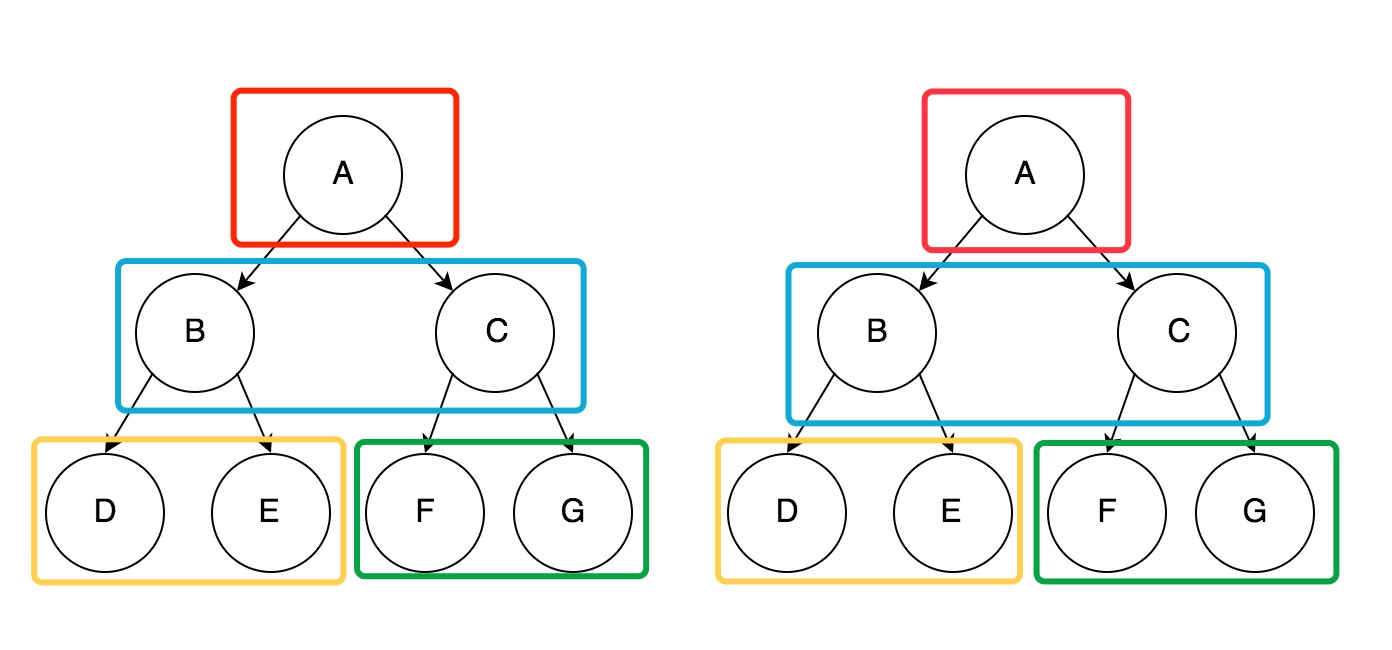
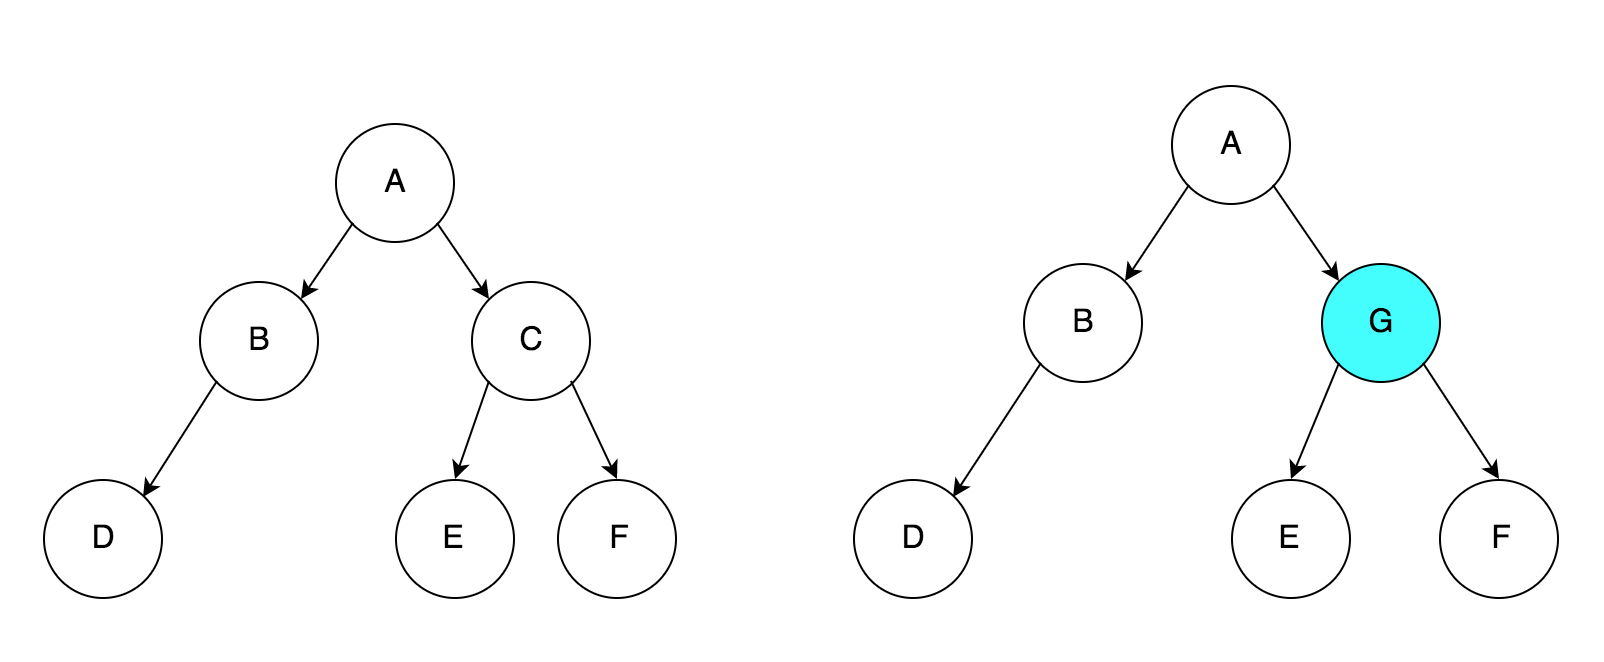
Chapter 2.4 minor editing

Changed region(s): [[0.0, 0.1231, 0.9885, 0.9231], [0.8341, 0.7692, 0.8649, 0.8308], [0.2162, 0.1846, 0.278, 0.2154]]

diff --git a/Chapter2/Chapter §2.4 Diff算法.md b/Chapter2/Chapter §2.4 Diff算法.md
@@ -50,9 +50,9 @@ span.append(counter)
 
     关于**React**的**DOM Tree**的**Diff**: (PS: 相同颜色的节点进行比较)
 
-![Component Diff](../ComponentDiff.png)
+![Tree Diff](../TreeDiff.png)
 
-    React的比对策略, 同级与同级比对, 如果比对结果为**false**, 那么由这个节点将被卸载之后重新**mount**进**DOM Tree.** 
+    **React**的比对策略, 同级与同级比对, 如果比对结果为**false**, 那么由这个节点将被卸载之后重新**mount**进**DOM Tree.** 
 
     比如: 
 
@@ -75,7 +75,7 @@ B.destory();
 D.destory();
 // Re-mounting phase
 let newB = new BComponent();
-C.appendChild(newB.appendChild(new DComponent()));
+new CComponent().appendChild(newB.appendChild(new DComponent()));
 ```
 
     根据这个过程, 再结合之前生命周期, 可以得出以下调用栈: (如果感兴趣可以去自己尝试在代码里做实验, 给生命周期函数里加上log, 来观察具体调用栈)
@@ -87,15 +87,18 @@ A.componentWillUpdate();
 B.ComponentWillUnmount();
 D.ComponentWillUnmount();
 
-C.componentWillUpdate();
-new newB();
+new CComponent();
+newC.componentWillMount();
+new BComponent();
 newB.componentWillMount();
-new newD();
+new DComponent();
 newD.componentWillMount();
+
+C.componentWillUnmount();
+
 newD.componentDidMount();
 newB.componentDidMount();
-
-C.componentDidUpdate();
+newC.componentDidMount();
 A.componentDidUpdate();
 // update over
 ```
@@ -103,19 +106,6 @@ A.componentDidUpdate();
 我写了一个例子: [Example.js](./Example.js), 通过例子的运行结果可以看到以下log
 
 ```javascript
-A created
-A Will Mount
-B created
-B Will Mount
-D created
-D Will Mount
-C created
-C Will Mount
-D Did Mount
-B Did Mount
-C Did Mount
-A Did Mount
-=====================
 A Will Update
 B Will Unmount
 D Will Unmount
@@ -132,24 +122,124 @@ C Did Mount
 A Did Update
 ```
 
+    通过这个log和运行过程可以看到, `C` `B` `D` 三个节点并非是被单纯的移动, 而是先被注销之后, 再重新生成过去, 这一过程实际的开销是比较大的. 所以, 在维护应用时, 要想进一步的提高应用性能.
 
+> 尽可能保有原有的DOM结构, 转而采用CSS的方法来做与之对应的相同的效果(显示或隐藏节点), 会减少一系列不必要的开销, 因为在开始也就说过, 对象的开辟和销毁的开销是很大的. 
+
+    接下来关注一下, 同级元素的比对.
 
 #### 2) 对于同级关系比对:
 
-#####   1. 相同类型的DOM元素的比对(DOM Elements Of The Same Type) :
+#####   1. 组件比对 (Component Diff) :
+
+> React 是基于组件构建应用的，对于组件间的比较所采取的策略也是简洁高效。
+>
+> - 如果是同一类型的组件，按照原策略继续比较 virtual DOM tree.
+> - 如果不是，则将该组件判断为 dirty component，从而替换整个组件下的所有子节点.
+> - 对于同一类型的组件，有可能其 Virtual DOM 没有任何变化，如果能够确切的知道这点那可以节省大量的 diff 运算时间，因此 React 允许用户通过 shouldComponentUpdate() 来判断该组件是否需要进行 diff.
+
+![ComponentDiff](../ComponentDiff.png)
+
+    按照这种情况, C和G的结构实际上是相似的, 根据上述描述, `C, E, F`组件会被整个卸载掉 重新生成`G` `E` `F` 组件, 而并非简单的通过`C -> G`这种替换.
+
+#####   2. 相同类型的DOM元素的比对(DOM Elements Of The Same Type) :
+
+> When comparing two React DOM elements of the same type, React looks at the attributes of both, keeps the same underlying DOM node, and only updates the changed attributes. For example:
 
 ```jsx
 <div className="before" title="stuff" />
 
 <div className="after" title="stuff" />
+
+// simplely update class from before to after
+// replace className 'before' -> 'after'
 ```
 
     在之前生命周期的一部分说到过, 所有的props都会被拉出来放到一个`props`对象当中保存, 当做比对的时候, 在这个例子里的变化`className`会被标记为需要改变的`props` , **React**便会只去更新这个属性
 
-```typescript
+    当变更style这个属性的时候会有一些不同, 一共有两种情况: 
 
+1. 仅有变更
+
+```jsx
+<div style={{color: 'red', fontWeight: 'bold'}} />
+
+<div style={{color: 'green', fontWeight: 'bold'}} />
+
+// simplely update color from red to green
+// replace style.color 'red' -> 'green'
+```
+
+2. 有属性的删除和添加
+
+```jsx
+<div style={{color: 'red'}} />
+
+<div style={{fontWeight: 'bold'}} />
+// firstly delete style.color, and add style.fontWeight = 'bold';
+// delete style.color
+// add style.fontWeight = 'bold'
 ```
 
 
 
-#####  2. 
+#####  3. 子节点递归 (Recursing of Children):
+
+> By default, when recursing on the children of a DOM node, React just iterates over both lists of children at the same time and generates a mutation whenever there’s a difference.
+
+    在**React**的源码里`validateExplicitKeys`方法中有这样一段警告, 很多刚开始使用React的同学也肯定遇到过, **React**警告用户, 要为<u>列表节点(List Node)</u>的成员提供一个<u>**Key**</u>属性. 那么这个<u>**Key**</u>属性, 到底扮演一个怎么样的角色呢? 
+
+```typescript
+'Each child in an array or iterator should have a unique "key" prop.' +
+      '%s%s See https://fb.me/react-warning-keys for more information.%s'
+```
+
+    **Key**在**React**的生态系统中扮演的角色可以如图所示
+
+[example](https://codesandbox.io/s/x22lqwvr9q)
+
+在没有设置**Key**的情况下: 
+
+![WithoutKey](../WithoutKey.png)
+
+    Log:
+
+```Typescript
+// Unmounting 
+A will unmount
+B will unmount.
+C will unmount.
+
+// Re-Mounting
+A is created.
+A will mount.
+C is created.
+C will mount.
+B is created.
+B will mount.
+
+A did mount.
+C did mount.
+B did mount.
+```
+
+在设置有**Key**的情况下:
+
+[example](https://codesandbox.io/s/1v4qxwp2n3)
+
+![WithKey](../WithKey.png)
+
+    此时的Log情况又是怎么样的呢? 
+
+```typescript
+A will update
+C will update
+B will update
+
+A is updated.
+C is updated.
+B is updated.
+```
+
+    从这个Log情况可以看到问题, 在没有节点增加或删除的情况下, 如果提供给节点**Key**关键字, 并不会产生多余的销毁, 开辟过程, 能够大幅的提升整体应用性能, 利用原有本身就存在的节点直接更新.  通过在**updating**的钩子函数中加入计时器来粗略观察更新时间, 该结论直接得到印证, 接下来我们可以通过源代码来查看为什么**Key**这个关键字会有这种效果.
+
